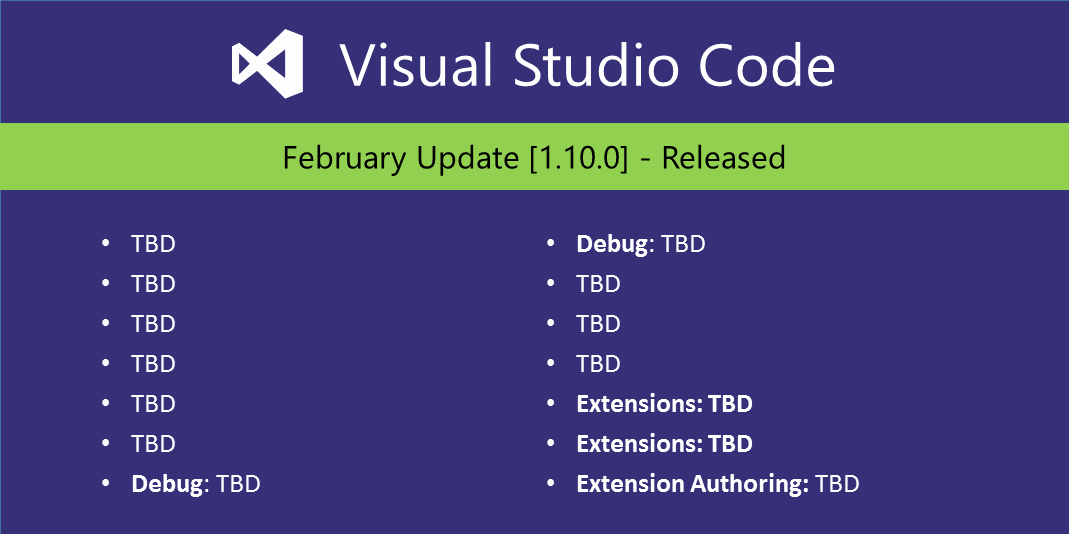
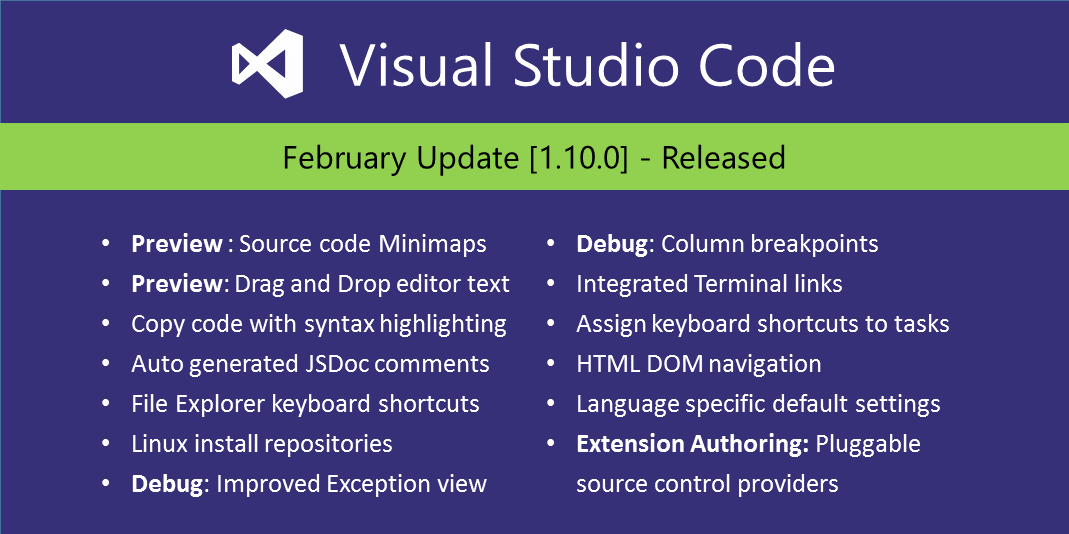
Add social image for 1.10

diff --git a/release-notes/v1_10.md b/release-notes/v1_10.md
@@ -16,11 +16,11 @@ Welcome to the February 2017 release of Visual Studio Code. There are a number o
 * **[File Explorer key bindings](#configurable-explorer-key-bindings)** - You can now create shortcuts for the Explorer and other list/tree UI. 
 * **[Official Linux repositories](#official-signed-repositories-for-linux)** - VS Code supports auto-updating packages on Linux.
 * **[Improved Exception view](#improved-exception-experience)** - Easily view exception details in the debugger.
-* **[Links in the Terminal](#links-in-the-terminal)** - Integrated Terminal output links streamline the workflow between editor and commands.
 * **[Column breakpoints](#column-breakpoints)** - Set multiple breakpoints on the same line of source code.
+* **[Links in the Terminal](#links-in-the-terminal)** - Integrated Terminal output links streamline the workflow between editor and commands.
 * **[Keybinding support for tasks](#key-bindings-per-task)** - Assign keyboard shortcuts to commonly used tasks.
-* **[HTML DOM Navigation](#html)** - Quickly navigate to DOM elements by id and class name.
-* **[Default Language Settings](#go-make-yaml-markdown)** - Appropriate default settings for Go, Make, YAML and Markdown.
+* **[HTML DOM navigation](#html)** - Quickly navigate to DOM elements by id and class name.
+* **[Language specific default settings](#go-make-yaml-markdown)** - Appropriate default settings for Go, Make, YAML and Markdown.
 
 The release notes are arranged in the following sections related to VS Code focus areas. Here are some further updates:
 
@@ -28,7 +28,7 @@ The release notes are arranged in the following sections related to VS Code focu
 * **[Workbench](#workbench)** - Configurable window title, run either selected text or entire file from the Integrated Terminal.
 * **[Languages](#languages)** - TypeScript 2.2, disable color preview decorators, better link navigation in Markdown.
 * **[Debugging](#debugging)** - Launch debugger using just the keyboard, new variable syntax, debug unsaved files.
-* **[Tasks](#task-support)** - Assign keyboard shortcuts to tasks, run tasks in separate terminals, new ${lineNumber} variable.
+* **[Tasks](#task-support)** - Run tasks in separate terminals, new ${lineNumber} variable.
 * **[Extension Authoring](#extension-authoring)** - Pluggable SCM provider, Modal message dialogs, provide language specific settings.
 
 ## Editor
